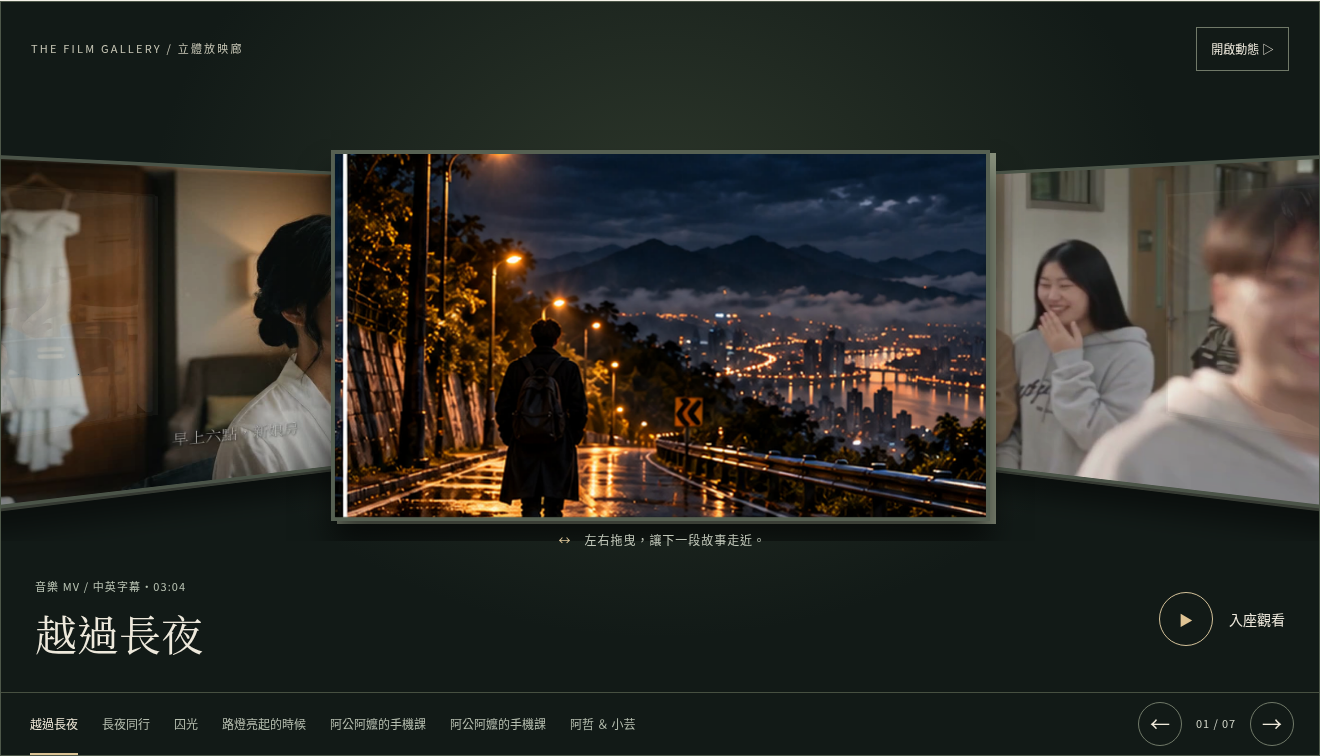
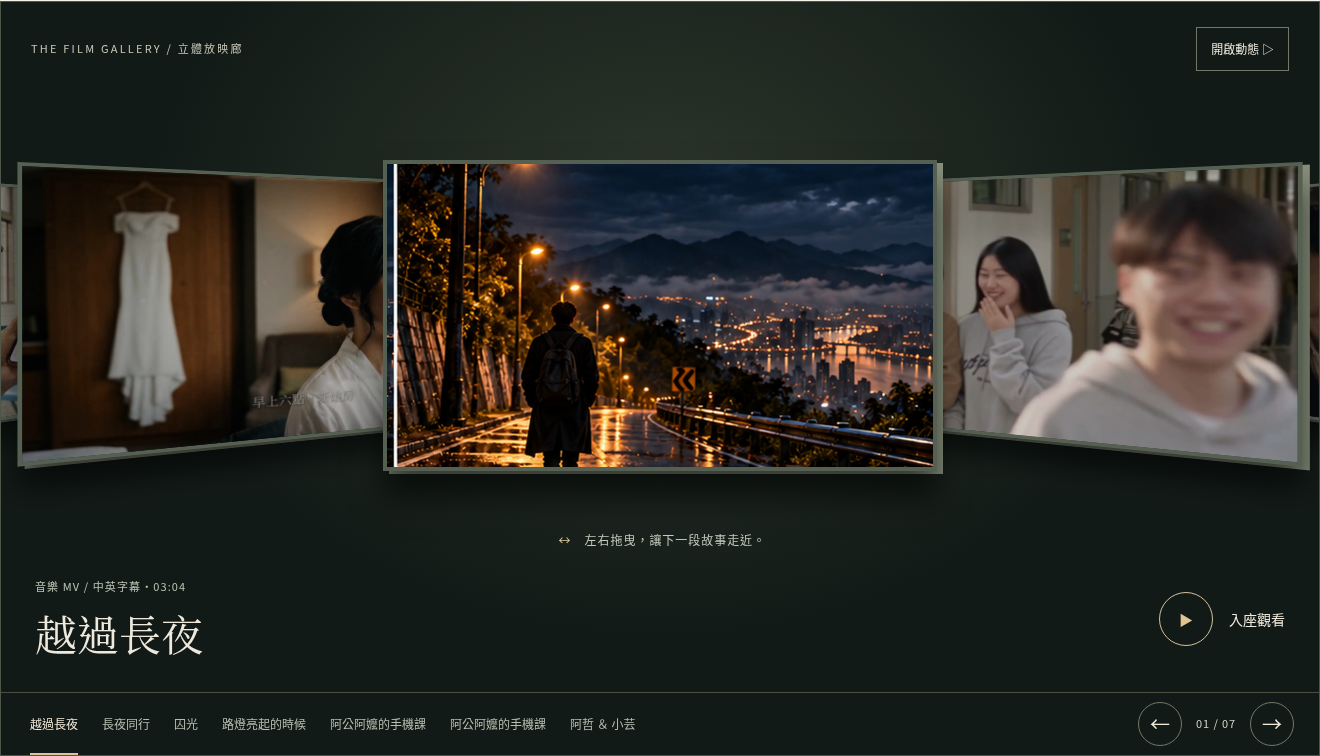
Keep fallback panels opaque and match the spatial framing

diff --git a/film-gallery.css b/film-gallery.css
@@ -9,7 +9,7 @@
 .film-space[data-dragging=true]{cursor:grabbing}
 .film-space canvas{position:absolute;inset:0;width:100%;height:100%;pointer-events:none}
 .film-fallback{position:absolute;inset:0;perspective:900px;perspective-origin:50% 40%;pointer-events:none}
-.film-panel{display:block;position:absolute;left:25%;top:17%;width:50%;aspect-ratio:16/9;border:4px solid #566052;padding:0;background:#161d18;box-shadow:0 25px 30px #0009,6px 3px 0 #89917d;transform:translateX(var(--x,0%)) translateZ(var(--z,0px)) rotateY(var(--yaw,0deg));transform-style:preserve-3d}
+.film-panel{display:block;position:absolute;left:29%;top:19%;width:42%;aspect-ratio:16/9;border:4px solid #566052;padding:0;background:#161d18;box-shadow:0 25px 30px #0009,6px 3px 0 #89917d;transform:translateX(var(--x,0%)) translateZ(var(--z,0px)) rotateY(var(--yaw,0deg));transform-style:preserve-3d}
 .film-panel img{width:100%;height:100%;object-fit:cover;display:block;user-select:none}
 .film-gallery[data-renderer=webgl] .film-fallback{visibility:hidden}
 .film-gallery[data-renderer=css] canvas{visibility:hidden}

diff --git a/lib/film-gallery.js b/lib/film-gallery.js
@@ -65,7 +65,7 @@ export function initFilmGallery(works) {
     if(!drag){position=motionAllowed()?position+(index-position)*(1-Math.exp(-dt*7)):index;if(Math.abs(index-position)<.0002)position=index;}
     const offsets=items.map((_,i)=>distance(i,position));
     [...fallback.children].forEach((card,i)=>{
-      const d=offsets[i],a=Math.abs(d);card.style.setProperty('--x',`${d*76}%`);card.style.setProperty('--z',`${-a*165}px`);card.style.setProperty('--yaw',`${-d*32}deg`);card.style.opacity=a>2.4?'0':String(1-Math.min(a,2)*.18);card.style.zIndex=String(10-Math.round(a*2));
+      const d=offsets[i],a=Math.abs(d);card.style.setProperty('--x',`${d*76}%`);card.style.setProperty('--z',`${-a*165}px`);card.style.setProperty('--yaw',`${-d*32}deg`);card.style.opacity=a>2.4?'0':'1';card.firstElementChild.style.filter=`brightness(${1-Math.min(a,2)*.2})`; card.style.zIndex=String(10-Math.round(a*2));
     });
     scene?.render(offsets,elapsed,moving);
     host.dataset.moving=String(moving);host.dataset.auto=String(auto&&moving&&!hover&&!focused);
